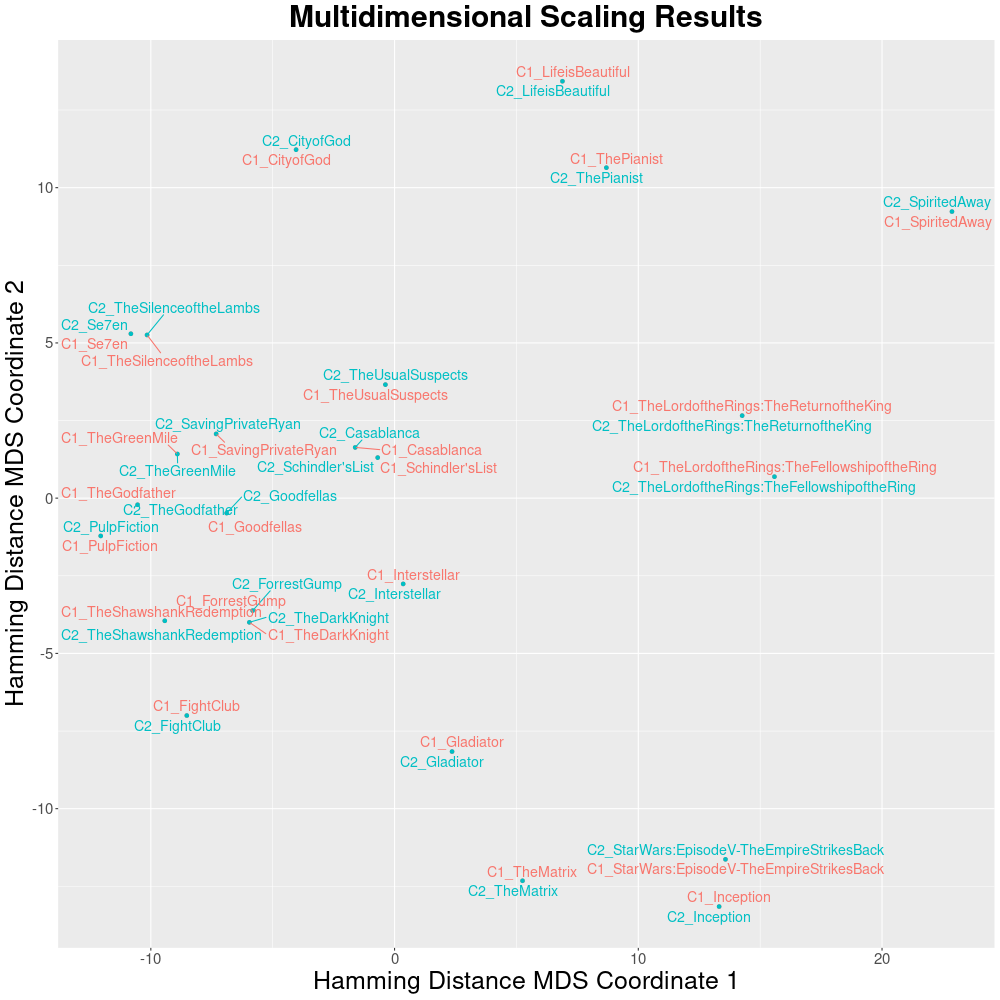
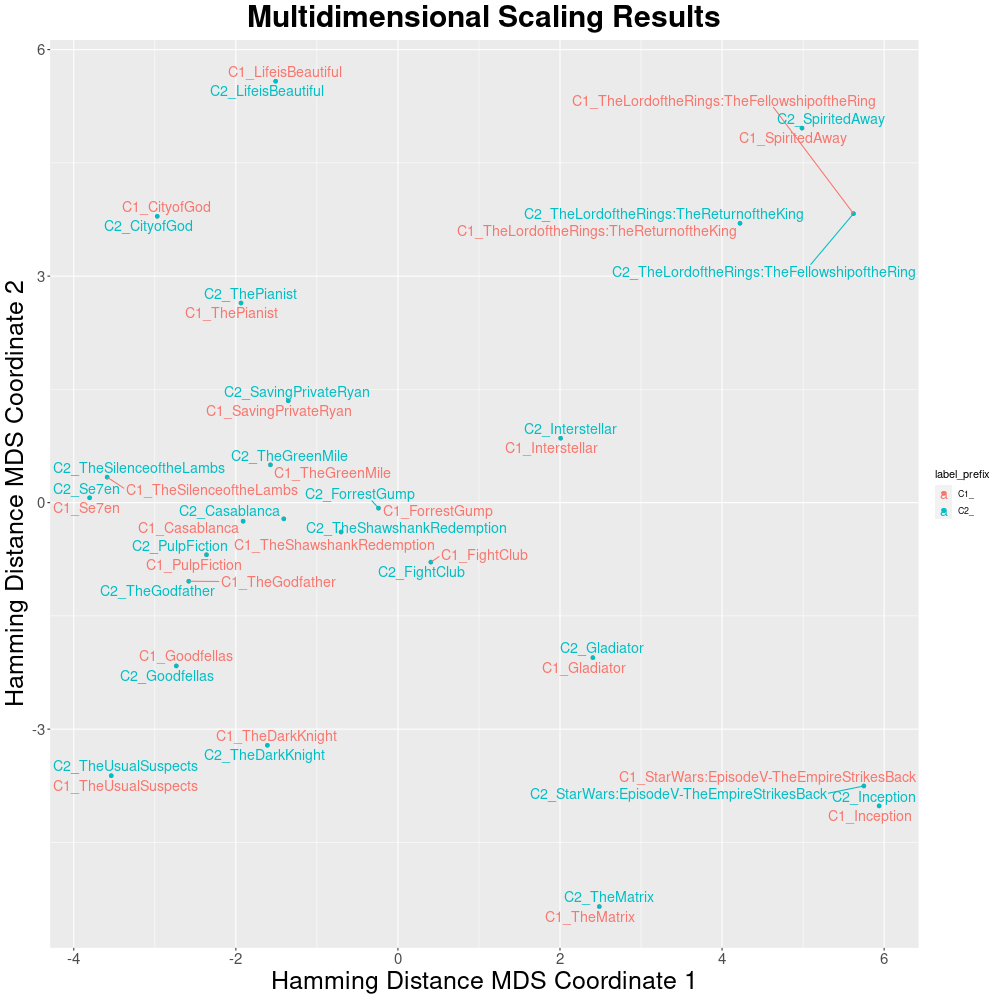
Update docs

diff --git a/docs/cohort.md b/docs/cohort.md
@@ -73,11 +73,8 @@ When using the `Pheno-ranker` command-line interface, simply ensure the [correct
         # Read in the input file as a matrix 
         data <- as.matrix(read.table("matrix.txt", header = TRUE, row.names = 1))
         
-        #calculate distance matrix
-        d <- dist(data)
-        
         #perform multidimensional scaling
-        fit <- cmdscale(d, eig=TRUE, k=2)
+        fit <- cmdscale(data, eig=TRUE, k=2)
         
         #extract (x, y) coordinates of multidimensional scaling
         x <- fit$points[,1]
